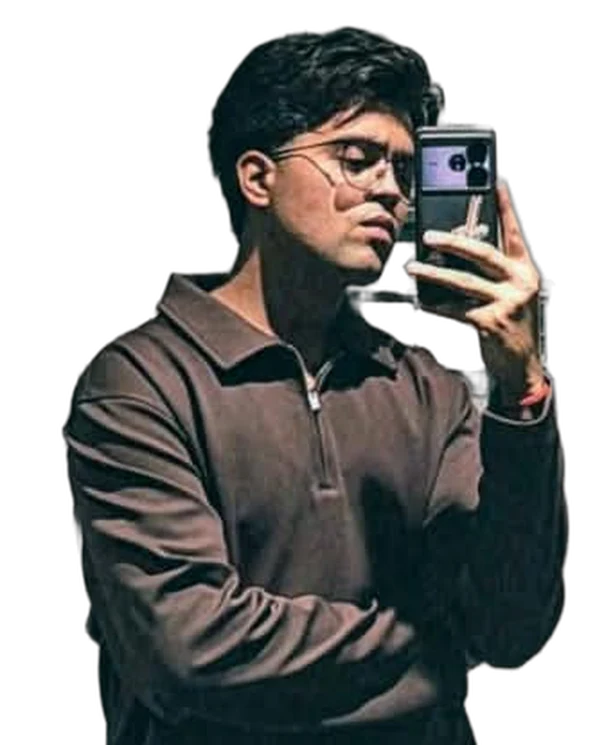
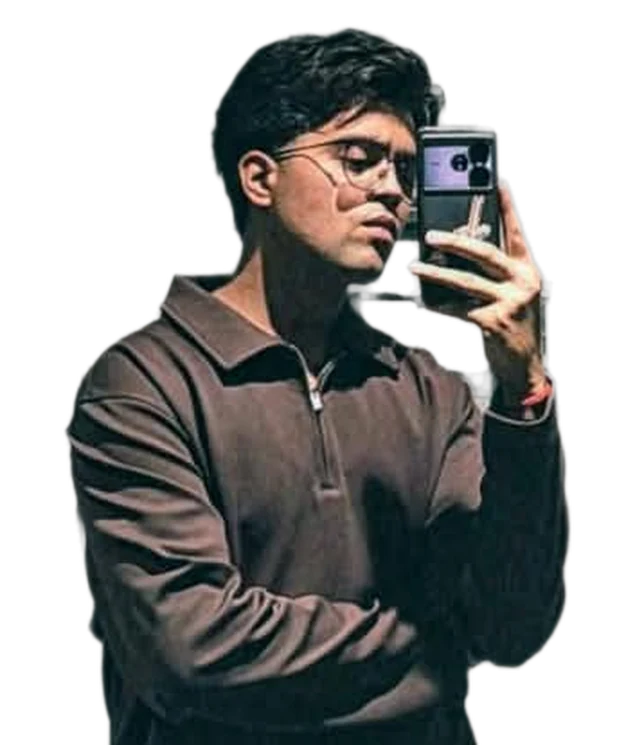
Fit the portrait shape on phones and clean the cut-out edge

diff --git a/index.html b/index.html
@@ -42,7 +42,7 @@
     <section class="wrap" aria-label="Portrait">
       <div class="portrait in" style="--i:4">
         <svg class="shape" viewBox="0 0 1136 560" preserveAspectRatio="xMidYMax slice" aria-hidden="true">
-          <polygon class="jag" points="312,560 338,404 316,300 356,192 342,84 452,62 522,16 602,52 702,26 762,112 816,96 800,232 826,332 796,432 822,560"/>
+          <polygon class="jag jag-wide" points="312,560 338,404 316,300 356,192 342,84 452,62 522,16 602,52 702,26 762,112 816,96 800,232 826,332 796,432 822,560"/>
           <g class="rays rays-wide">
             <path d="M300 232 L150 150" stroke-width="5"/>
             <path d="M296 272 L118 262" stroke-width="3.5"/>
@@ -53,15 +53,16 @@
             <path d="M852 206 L922 198" stroke-width="3"/>
             <path d="M842 256 L896 292" stroke-width="2.5"/>
           </g>
+          <polygon class="jag jag-tight" points="345,560 360,420 345,320 390,250 420,160 410,90 500,70 560,30 620,70 690,50 720,130 712,240 780,300 770,420 790,560"/>
           <g class="rays rays-tight">
-            <path d="M442 150 L362 102" stroke-width="5"/>
-            <path d="M432 192 L344 186" stroke-width="3.5"/>
-            <path d="M456 116 L424 42" stroke-width="3"/>
-            <path d="M700 132 L774 82" stroke-width="4"/>
-            <path d="M706 178 L790 172" stroke-width="3"/>
+            <path d="M395 150 L330 110" stroke-width="4"/>
+            <path d="M385 195 L318 200" stroke-width="3"/>
+            <path d="M405 115 L380 45" stroke-width="3"/>
+            <path d="M735 125 L800 80" stroke-width="4"/>
+            <path d="M745 180 L815 178" stroke-width="3"/>
           </g>
         </svg>
-        <img src="portrait.webp" alt="Aditya Raj" width="613" height="745" />
+        <img src="portrait.webp" alt="Aditya Raj" width="617" height="745" />
       </div>
     </section>
 

diff --git a/style.css b/style.css
@@ -104,7 +104,7 @@ h1, h2, h3 { text-wrap: balance; font-weight: 500; }
 .portrait .shape { position: absolute; inset: 0; width: 100%; height: 100%; }
 .jag { fill: var(--violet); stroke: var(--acid); stroke-width: 12; stroke-linejoin: miter; }
 .rays path { stroke: var(--acid); stroke-linecap: round; fill: none; stroke-dasharray: 200; stroke-dashoffset: 200; animation: draw 1.1s var(--spring) forwards; }
-.rays-tight { display: none; }
+.rays-tight, .jag-tight { display: none; }
 :root:not([data-theme="light"]) .rays { filter: drop-shadow(0 0 6px color-mix(in srgb, var(--acid) 60%, transparent)); }
 .rays path:nth-child(2) { animation-delay: .9s; } .rays path:nth-child(3) { animation-delay: .75s; } .rays path:nth-child(4) { animation-delay: 1.05s; }
 .rays path:nth-child(5) { animation-delay: .8s; } .rays path:nth-child(6) { animation-delay: .95s; } .rays path:nth-child(7) { animation-delay: 1.1s; }
@@ -218,7 +218,7 @@ a.project:hover .disc-acid { transform: rotate(-45deg); }
   .statements > div + div { border-left: none; border-top: 1px solid var(--line); }
   .projects, .skills, .certs { grid-template-columns: 1fr; }
   .card { padding: 22px; }
-  .portrait img { height: 92%; }
-  .rays-wide { display: none; }
-  .rays-tight { display: inline; }
+  .portrait img { height: 80%; }
+  .rays-wide, .jag-wide { display: none; }
+  .rays-tight, .jag-tight { display: inline; }
 }
